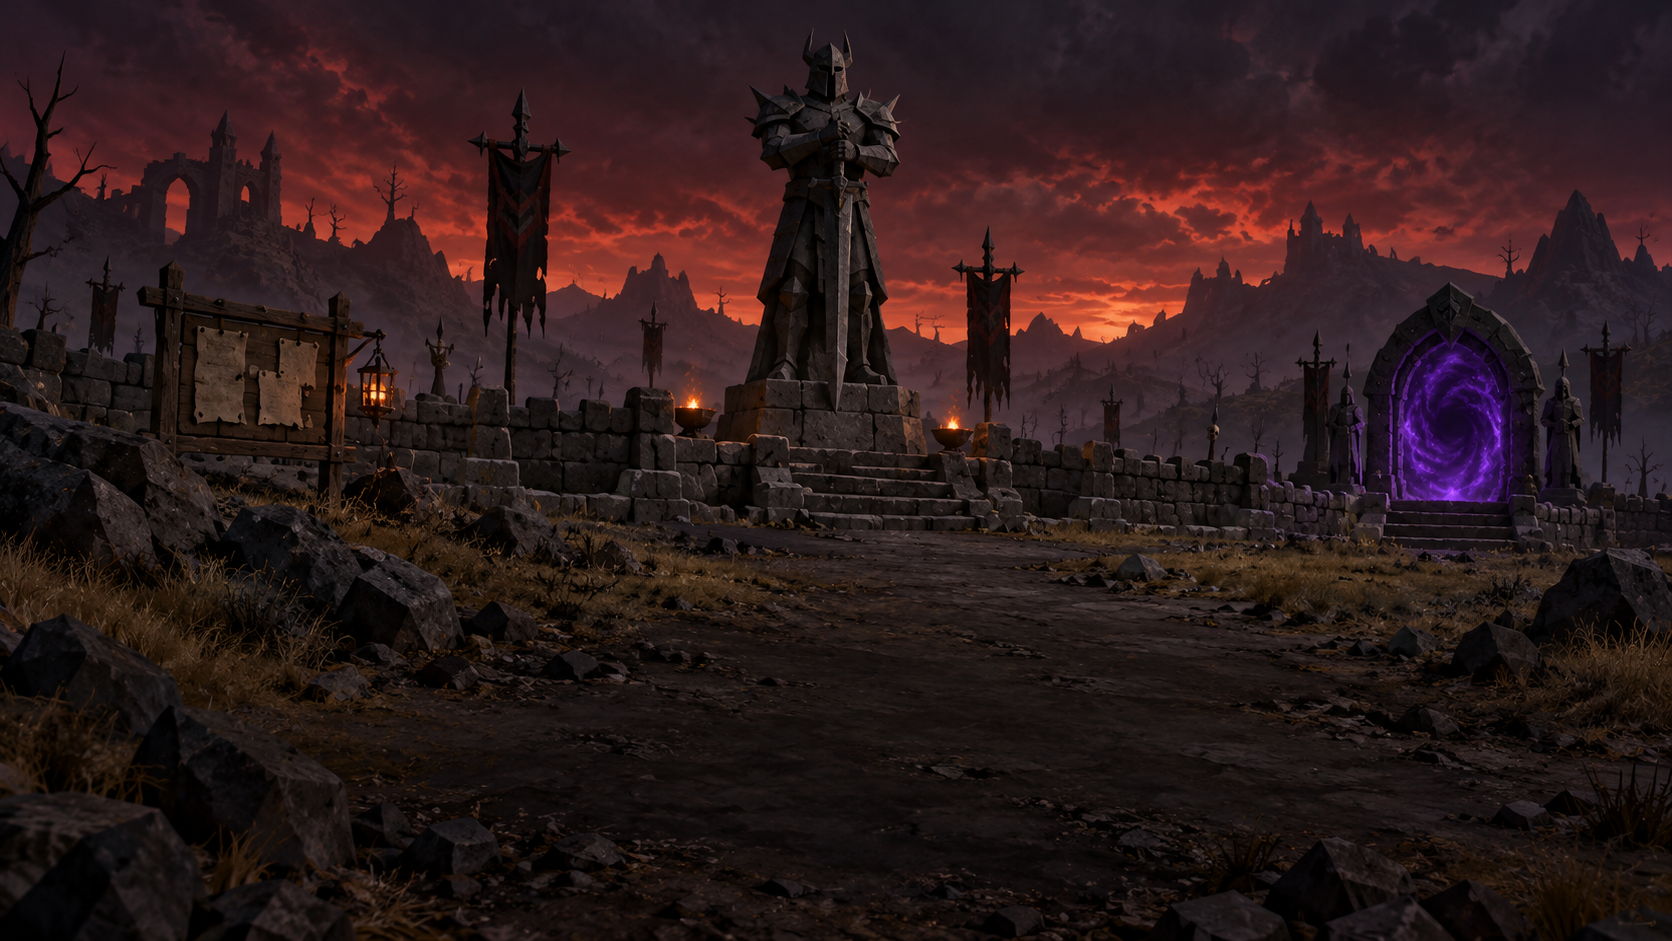
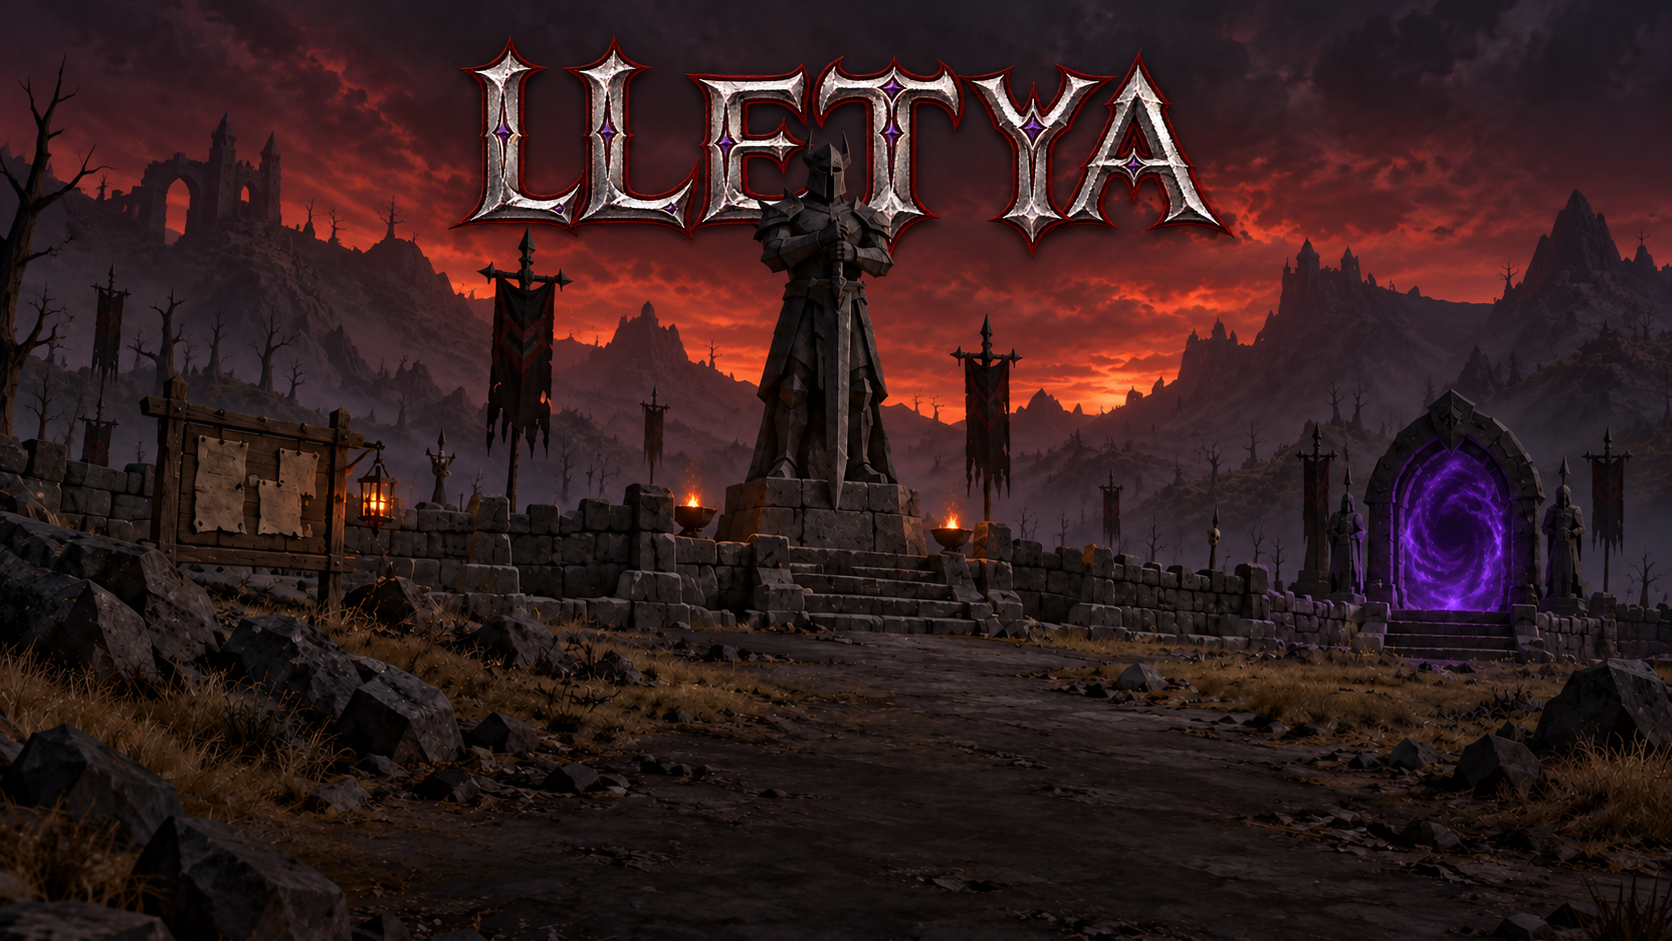
Add the LLETYA wordmark to the login background

diff --git a/main/branding/README.md b/main/branding/README.md
@@ -1,10 +1,10 @@
 # Lletya artwork
 
-Created with the built-in imagegen tool on 28 October 2026. The loading artwork is an original scene inspired by the supplied RuneScape courtyard and dark fantasy references, rather than a composite. It contains no text, UI, counters, buttons, watermarks, lava or molten ground.
+Created with the built-in imagegen tool on 28 October 2026. The loading artwork is an original scene inspired by the supplied RuneScape courtyard and dark fantasy references, rather than a composite. The clean scene contains no text, UI, counters, buttons, watermarks, lava or molten ground. The login variant now includes the exact LLETYA wordmark near the top center in the same silver/crimson style as the launcher.
 
-Source assets: `login-background.png` (1672x941), `app-icon.png` (1254x1254, transparent), and `launcher-wordmark.png` (2172x724, transparent). All three outputs were inspected for composition, spelling and transparency. The wordmark reads **LLETYA**.
+Source assets: `login-background.png` (1672x941, with title), `login-background-scene.png` (1672x941, original clean scene), `app-icon.png` (1254x1254, transparent), and `launcher-wordmark.png` (2172x724, transparent). All three outputs were inspected for composition, spelling and transparency. The wordmark reads **LLETYA**.
 
-Run `powershell -ExecutionPolicy Bypass -File scripts/update-branding.ps1` from the workspace root to regenerate runtime assets. The scene is proportionally scaled and cropped to the native 765x503 login canvas, then split at x=383 into adjoining 383x503 and 382x503 PNGs. The app icon fits a transparent 191x225 canvas; the launcher wordmark fits a transparent 469x167 canvas. Original generated images stay at full resolution here. The background deliberately contains no baked-in title or login controls.
+Run `powershell -ExecutionPolicy Bypass -File scripts/update-branding.ps1` from the workspace root to regenerate runtime assets. The scene is proportionally scaled and cropped to the native 765x503 login canvas, then split at x=383 into adjoining 383x503 and 382x503 PNGs. The app icon fits a transparent 191x225 canvas; the launcher wordmark fits a transparent 469x167 canvas. Original generated images stay at full resolution here. The login background includes the title above the native login controls. The original scene remains available separately without a title; neither version includes baked-in login controls.
 
 ## Background prompt
 
@@ -19,3 +19,9 @@ Use case: logo-brand. Transparent application icon for a medieval fantasy RuneSc
 Edit target: the supplied transparent fantasy wordmark. Correct ONLY the title spelling to the exact word LLETYA, spelled L-L-E-T-Y-A, representing the game name Lletya. It must read LLETYA in that exact left-to-right letter order. Preserve the same silver beveled metal letters, crimson-black outline, small violet gems, horizontal layout, dimensions, generous margins and genuinely transparent background. No additional text, scene, plaque or watermark. The final six letters are L L E T Y A.
 
 The correction used the built-in imagegen tool. The full-resolution result is saved as `launcher-wordmark.png`, and `scripts/update-branding.ps1` derives the launcher resource.
+
+## Login title edit prompt
+
+Built-in imagegen edit. Edit target: `login-background-scene.png`. Supporting insert/style reference: `launcher-wordmark.png`. Add the exact title LLETYA (six letters L-L-E-T-Y-A) near the top center, centered horizontally and fully visible within generous margins. Match the supporting wordmark's silver beveled weathered metal lettering, crimson-black trim and small violet accents. Make the title about 46% of the canvas width, confined to the upper 7%-25%, above the native login controls. Retain the armored statue, purple portal, courtyard, notice board, distant crags, red sky and overall atmosphere. Keep the landscape aspect ratio. No rectangular plaque behind the title, other text, buttons, game interface, lava or watermark. Exact spelling is LLETYA.
+
+The titled output is `login-background.png`; `scripts/update-branding.ps1` scales/crops it to the native canvas and writes the two adjoining runtime background halves.

diff --git a/docs/branding-status.md b/docs/branding-status.md
@@ -10,11 +10,11 @@ Both game listeners were stopped before moving the runtime directories. Player f
 
 Client settings are now `.lletya` in both the user-home and platform preference locations. Existing current settings and device preferences take precedence; missing settings from the older location were merged without overwriting existing files. Additional originals are preserved in the ignored `.tools/name-correction-user-settings` backup. The one-time legacy migration code has been removed from the application after completing this filesystem migration.
 
-Windows can keep the now-empty original Desktop folder locked while an editor or tool process still has it as its working directory. The project files have moved to the correct folder. `scripts/cleanup-empty-workspace.ps1` safely retries removing an empty original directory after its handles are released; it never deletes files or recursively removes a directory. Open the new workspace path for further work.
+Windows can keep the now-empty original Desktop folder locked while an editor or tool process still has it as its working directory. The project files have moved to the correct folder. `scripts/cleanup-empty-workspace.ps1` safely retries removing an empty original directory after its handles are released; it never deletes files or recursively removes a directory. Open the new workspace path for further work. The owner will handle the original folder manually; the previously running cleanup helper was stopped at their request.
 
 ## Artwork
 
-The original wilderness background remains unchanged: an armored statue, stone courtyard, notice board and purple portal beneath a dark red sky, without text, UI overlays or lava. The silver launcher wordmark now reads **LLETYA**, in the exact order L-L-E-T-Y-A. The L shield icon remains appropriate. The spelling correction used the built-in imagegen tool; originals and prompts are recorded in [the artwork documentation](../main/branding/README.md). `scripts/update-branding.ps1` regenerates native login halves and correctly sized app/launcher resources.
+The wilderness login background now includes LLETYA at the top in the same silver/crimson lettering as the launcher. The armored statue, courtyard, notice board, purple portal and dark red sky remain the scene, without game-UI overlays or lava. The original title-free scene is preserved separately in `main/branding/login-background-scene.png`. The silver launcher wordmark now reads **LLETYA**, in the exact order L-L-E-T-Y-A. The L shield icon remains appropriate. The spelling correction used the built-in imagegen tool; originals and prompts are recorded in [the artwork documentation](../main/branding/README.md). `scripts/update-branding.ps1` regenerates native login halves and correctly sized app/launcher resources.
 
 ## Verification and history
 

diff --git a/README.md b/README.md
@@ -12,7 +12,7 @@ The current development batch brings together the following changes. The feature
 
 | Area | Delivered changes |
 | --- | --- |
-| Lletya rename (28 October) | Renamed modules, custom plugins, client/server text, preferences and launcher resources; added original wilderness loading artwork, an L shield icon and LLETYA wordmark. Moved source modules and runtime state into the corrected Desktop workspace and consolidated client settings into `.lletya`; no old-name startup mappings remain. |
+| Lletya rename (28 October) | Renamed modules, custom plugins, client/server text, preferences and launcher resources; added original wilderness loading artwork, an L shield icon and LLETYA wordmark, also integrated into the login background. Moved source modules and runtime state into the corrected Desktop workspace and consolidated client settings into `.lletya`; no old-name startup mappings remain. |
 | Branding and local setup | Lletya names, login artwork and community links; portable JDK/Gradle launch scripts, localhost startup/login checks, readable logs and optional Discord configuration. |
 | Combat builds and gearing | Free editing of seven combat skills, twelve editable presets seeded with six builds, saved prayers/spellbooks, keyboard shortcuts, native close/camera controls and bank-capacity checks that preserve attributed items and rune-pouch contents. |
 | Combat and spellbooks | Maximum-hit dummy corrections, including Vesta's special and dragon claws; equipment/combat regressions; restored classic Standard, Ancient and Lunar spellbook layouts. |
